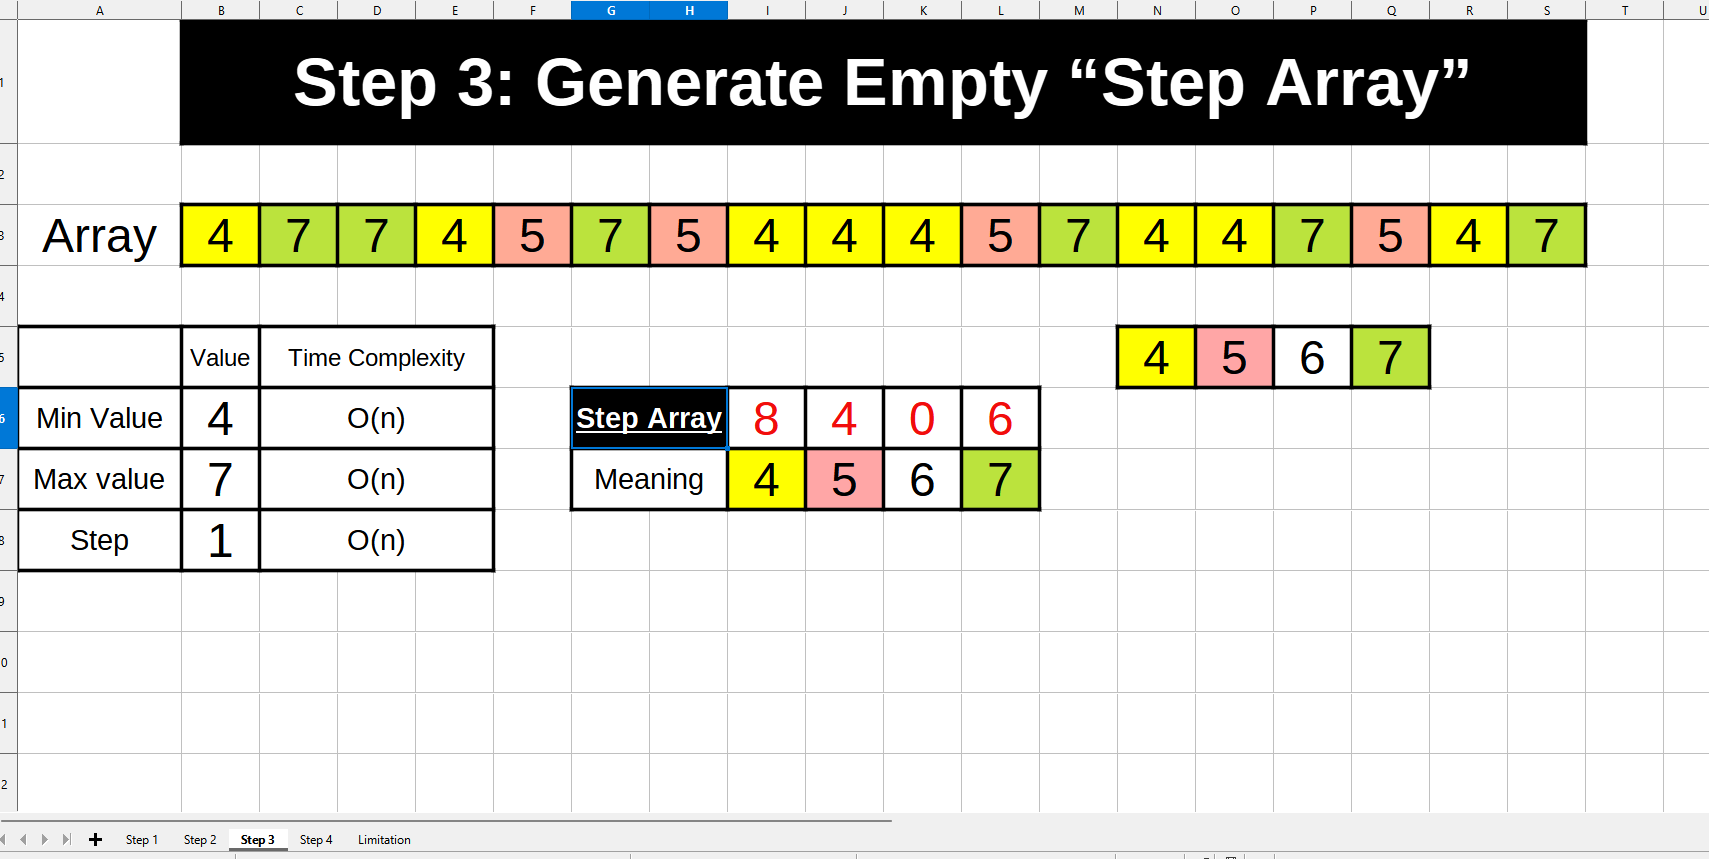
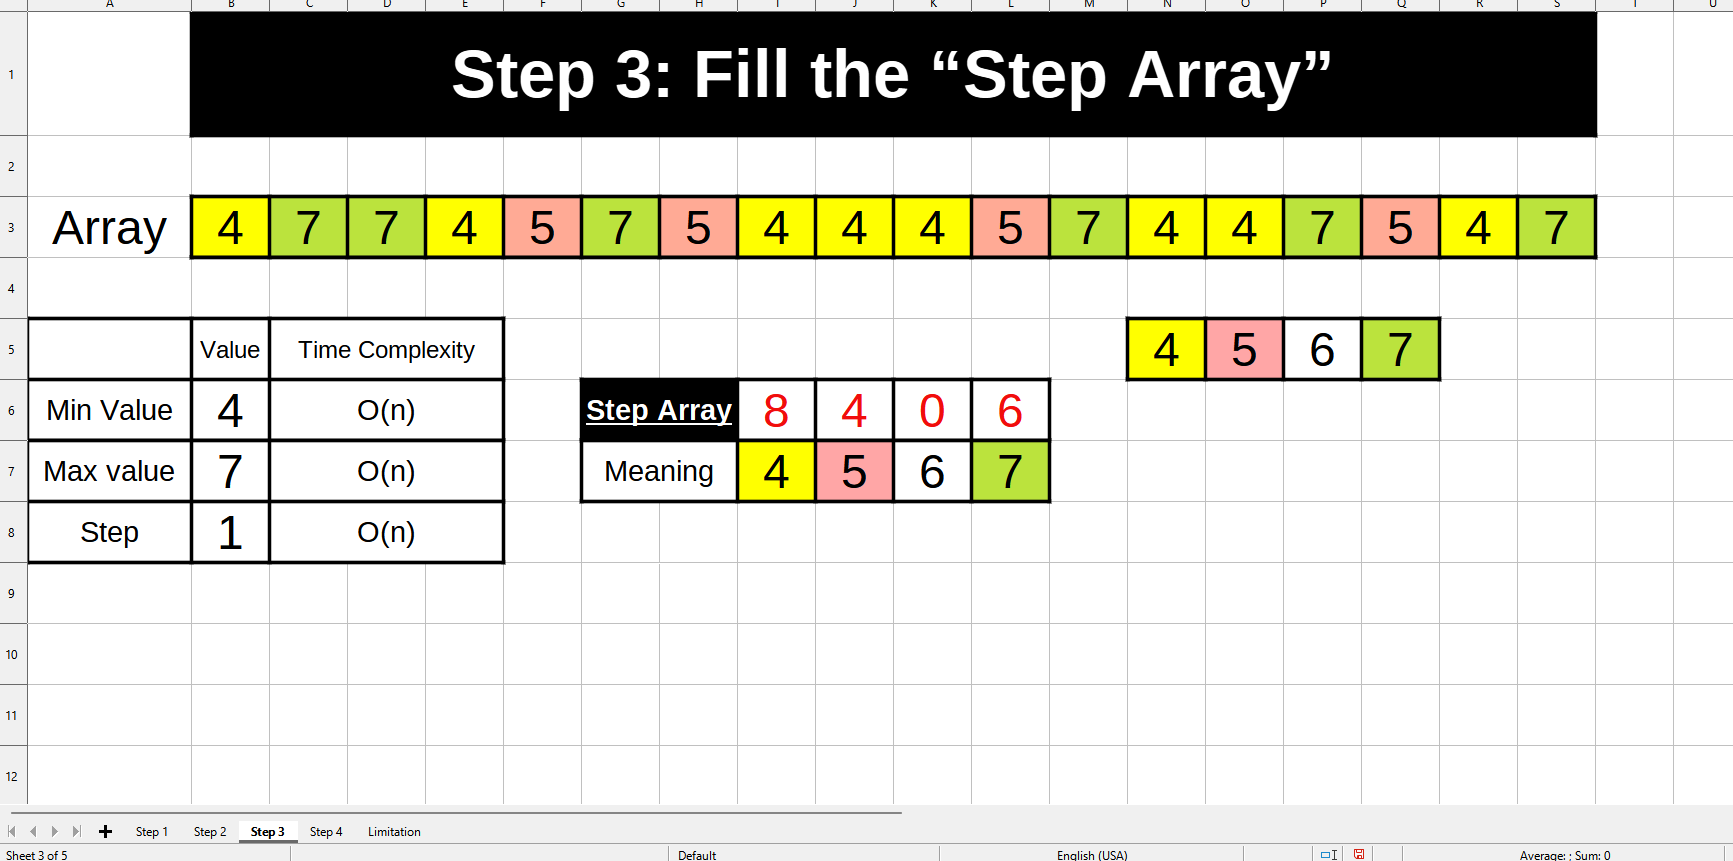
Documentation: completed

diff --git a/README.md b/README.md
@@ -12,21 +12,84 @@ It works on **`4 Steps`**:
 
 <img src="./Images/Step1.png">
 
+Iterate over each element of the list to get these three variables:
+
+1. Minimum Value
+2. Maximum Value
+3. The Step (If not provided)
+
+- Time Complexity: **`O(n)`**
+
 ## Step 2: Generate Empty “Step Array”:
 
 <img src="./Images/Step2.png">
 
-## Step 3: Generate Empty “Step Array”:
+Using the:
 
-<img src="./Images/Step2.png">
+1. Minimum Value
+2. Maximum Value
+3. The Step
+
+We can generate the Empty **`Step Array`**
+
+## Step 3: Fill the “Step Array”:
+
+<img src="./Images/Step3.png">
+
+Iterate over each element in the Step Array, and increment the value at the
+correct index for that element.
 
 ## Step 4: Unfold the “Step Array”:
 
-<img src="./Images/Step2.png">
+<img src="./Images/Step4.png">
+
+Let's apply on the example above:
+
+- We create an empty list called `sorted_list`
+- We Itrate on each element in the Step Array
+  - First Element: Add 8 fours to sorted_list
+  - Second Element: Add 4 fives to sorted_list
+  - Third Element: Empty. Do not add any thing to sorted_list
+  - Fourth Element: Add 6 sevens to sorted_list
+- If `reversed` was true, reverse `sorted_list`
+- return `sorted_list`
 
 # The Limitation:
 
 <img src="./Images/Limitation.png">
+
+Since an array that can contain every possible element will be created, so it
+souldn't be that the number of posibilities is very large.  
+This is represented by the **`Step`**.
+
+### For Example:
+
+Let's imagine these two arrays:
+
+- `[1, 2, 1, 1, 1, 1, 1, 1, 2, 2, 2, 2, 2, 2, 2, 2, 2, 2, 1, 1, 1, 1, 1]`
+  - This is suitable
+  - Min Value = 1, Max value = 2, step = 1
+  - **`step_array`** = [12, 11]
+    - 12 elements have the value of 1
+    - 11 elements have the value of 2
+- `[1, 1.065465789, 2, 1, 1, 1, 1, 1, 1, 2, 2, 2, 2, 2, 2, 2, 2, 2, 2, 1, 1, 1, 1, 1]`
+  - Not suitable, You should use a general purpose sorting algorithm
+  - Min Value = 1, Max value = 2, step = 0.000000001
+  - **`step_array`** = [12, ...(Lots of zeros here)..., 1, ...(Lots of
+    zeros here)..., 11]
+
+If the limitation is not met, then there will be a huge consumtion in
+computational recources.
+
+### Examples where the limitation is met:
+
+- `[1, 2, 2, 1, 1, 4, 4, 4, 4, 4]`
+- `[0.1, -0.4, 1.1, 0.6]`
+- `[0, 100, 200, 800, 400, -100]`
+
+### Examples where the limitation NOT is met:
+
+- `[0.87654512, 100.54546578, 2.2145468432]`
 
 # Code:
 
